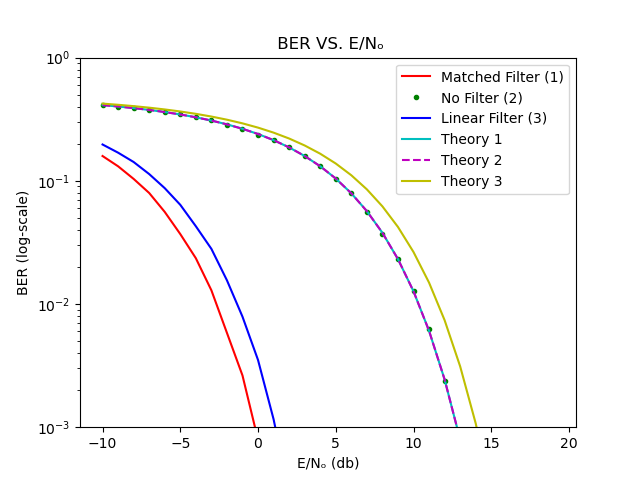
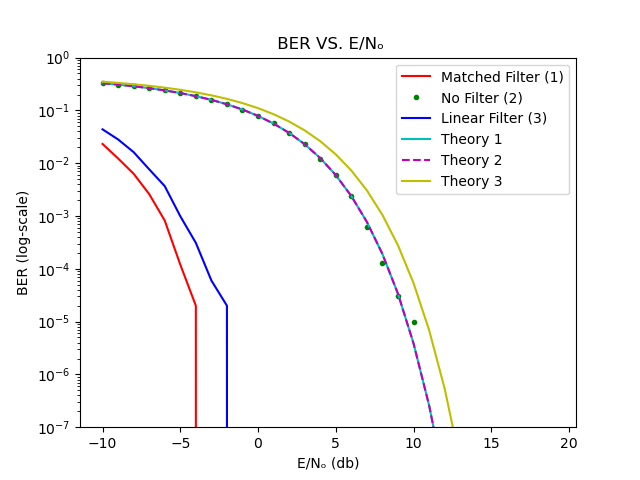
Tiny fix.

diff --git a/simulation.py b/simulation.py
@@ -46,7 +46,7 @@ def compute_BER(σₙ, f):                  # σₙ is the noise's variance and 
 # plot BER VS. E/No for each filter
 E_Nₒ=np.arange(-10, 20, 1)                      # E_Nₒ range
 Nₒ = 1/(10**(E_Nₒ/10))
-σₙ = np.sqrt(Nₒ*2)                              # the corresponding range of sigma.
+σₙ = np.sqrt(Nₒ/2)                              # the corresponding range of sigma.
 
 
 
@@ -79,7 +79,7 @@ plt.xlabel('E/Nₒ (db)')
 plt.ylabel('BER (log-scale)')
 plt.title(' BER VS. E/Nₒ')
 plt.legend(['Matched Filter (1)', 'No Filter (2)', 'Linear Filter (3)', 'Theory 1', 'Theory 2', 'Theory 3'])
-plt.ylim([1/n*100, 1])
+plt.ylim([1/(100*n), 1])
 plt.savefig('./BER.png')
 
 
